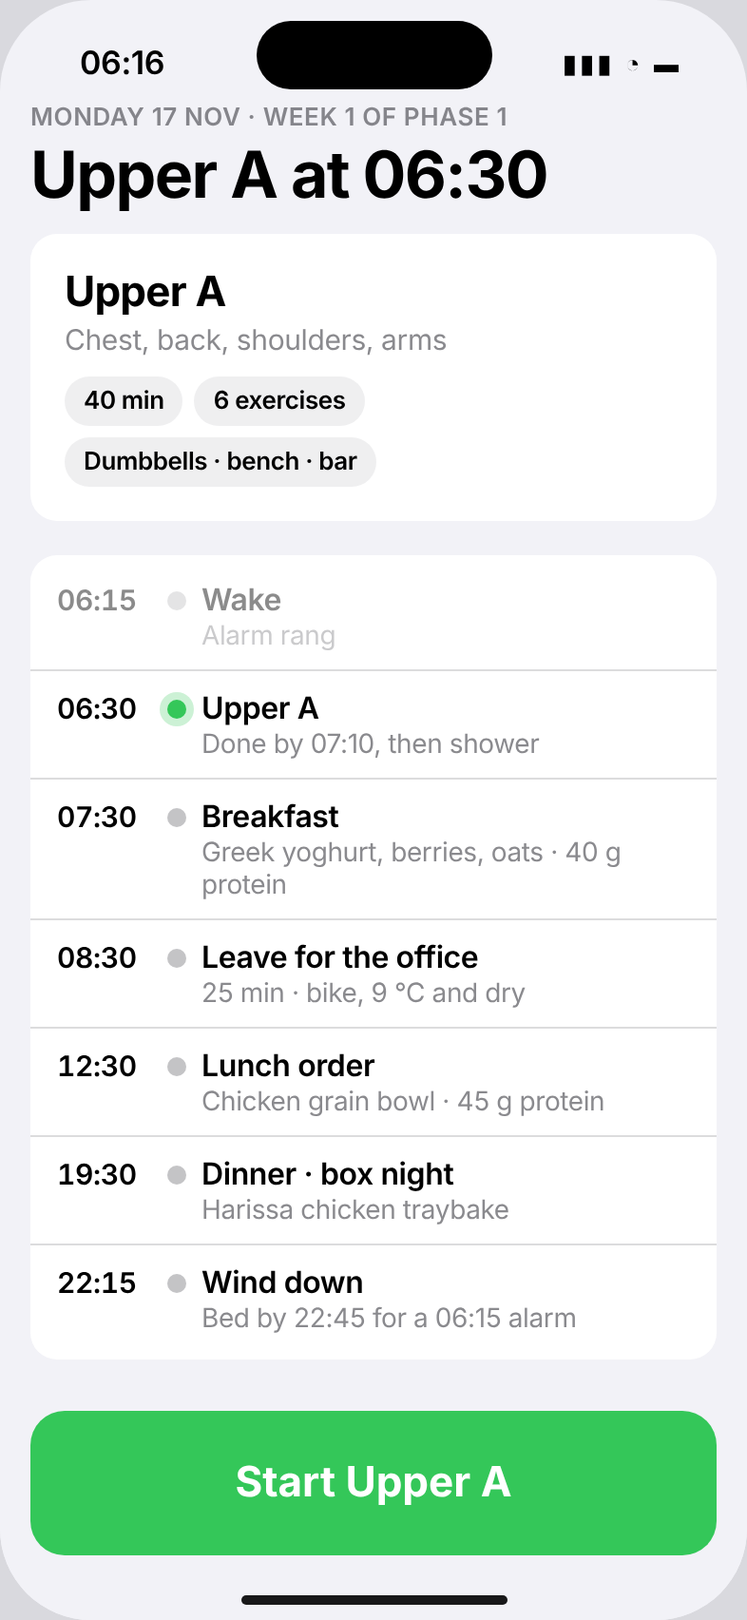
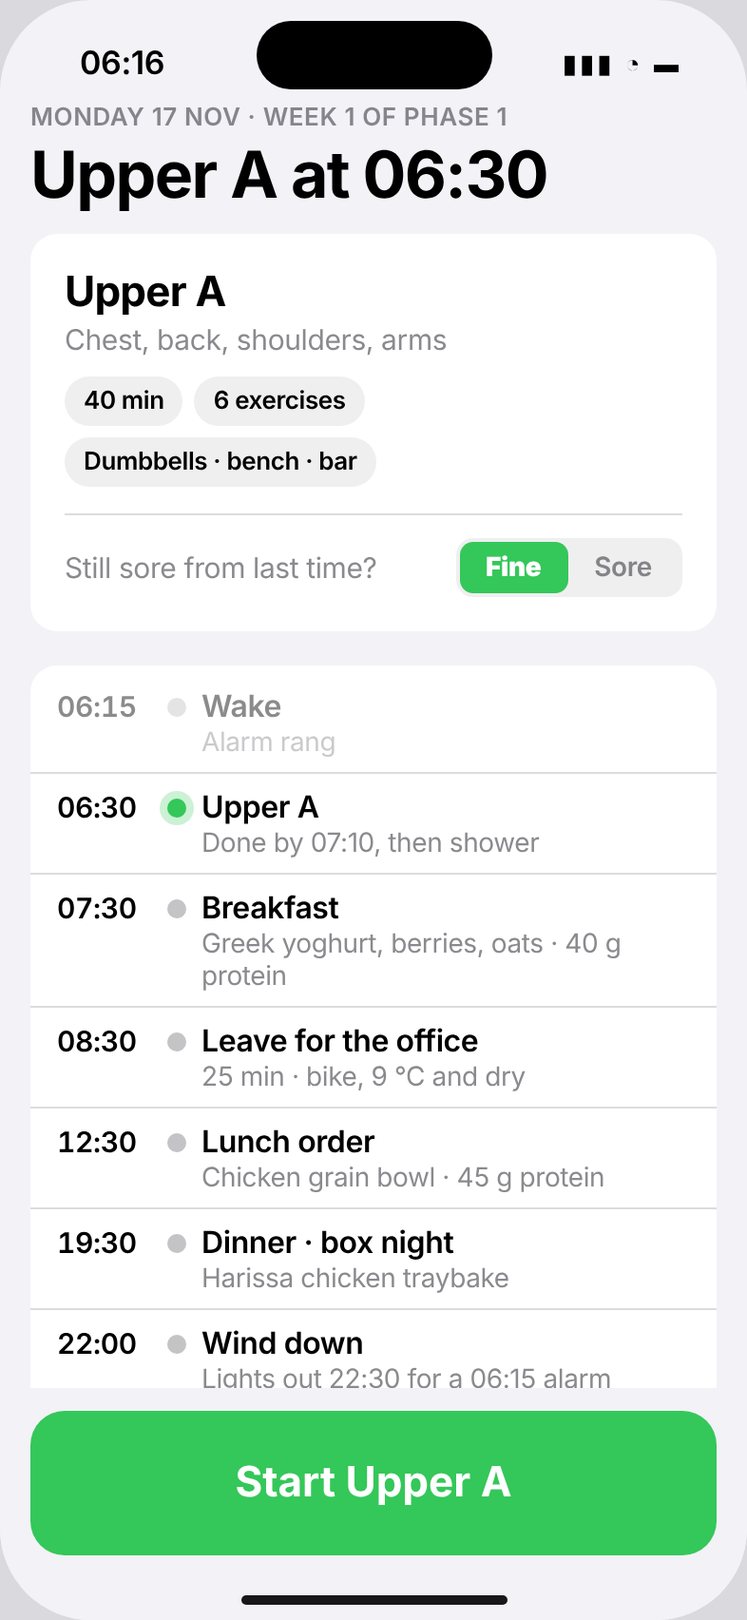
M1-03: fold in Advisor round 1 (warm-up, set variants, sleep rule, soreness row)
Claude-Session: https://claude.ai/code/session_01L5oTesrGTCiLPVATFCjxyL

diff --git a/docs/design/m1/mockups.html b/docs/design/m1/mockups.html
@@ -69,7 +69,7 @@
   .hero .meta { display: flex; gap: 6px; flex-wrap: wrap; margin-top: 10px; }
   .chip { font-size: 13px; font-weight: 600; padding: 5px 10px; border-radius: 99px; background: var(--fill); color: var(--label); }
   .timeline { margin-top: 18px; padding: 4px 0; }
-  .tl { display: grid; grid-template-columns: 58px 18px 1fr; align-items: start; padding: 9px 14px 9px 14px; }
+  .tl { display: grid; grid-template-columns: 58px 18px 1fr; align-items: start; padding: 7px 14px; }
   .tl .time { font-variant-numeric: tabular-nums; font-weight: 600; font-size: 15px; padding-top: 1px; }
   .tl .dot { width: 10px; height: 10px; border-radius: 5px; background: var(--label3); margin-top: 6px; }
   .tl.now .dot { background: var(--accent); box-shadow: 0 0 0 4px color-mix(in srgb, var(--accent) 25%, transparent); }
@@ -118,15 +118,15 @@
   .thumb svg { width: 52px; height: 52px; }
   .voice { margin: 14px 16px 0; text-align: center; font-size: 14px; color: var(--label2); }
 
-  .donehead { text-align: center; padding: 30px 16px 0; }
-  .tick { width: 84px; height: 84px; border-radius: 42px; background: var(--accent); color: var(--accent-ink); font-size: 46px; font-weight: 800; display: flex; align-items: center; justify-content: center; margin: 0 auto 16px; }
-  .stats { display: flex; margin: 20px 16px 0; padding: 14px 0; }
+  .donehead { text-align: center; padding: 8px 16px 0; }
+  .tick { width: 64px; height: 64px; border-radius: 32px; background: var(--accent); color: var(--accent-ink); font-size: 34px; font-weight: 800; display: flex; align-items: center; justify-content: center; margin: 0 auto 12px; }
+  .stats { display: flex; margin: 16px 16px 0; padding: 10px 0; }
   .stats div { flex: 1; text-align: center; }
   .stats div + div { border-left: .5px solid var(--sep); }
   .stats b { display: block; font-size: 24px; font-weight: 700; font-variant-numeric: tabular-nums; }
   .stats span { font-size: 13px; color: var(--label2); }
   .list { margin: 14px 16px 0; padding: 2px 14px; }
-  .li { display: flex; justify-content: space-between; align-items: center; padding: 11px 0; font-size: 15px; gap: 10px; }
+  .li { display: flex; justify-content: space-between; align-items: center; padding: 9px 0; font-size: 15px; gap: 10px; }
   .li + .li { border-top: .5px solid var(--sep); }
   .li .r { color: var(--label2); text-align: right; font-variant-numeric: tabular-nums; }
   .li .up { color: var(--accent); font-weight: 600; }
@@ -168,6 +168,18 @@
   .perm b { display: block; font-size: 17px; }
   .perm span { font-size: 15px; color: var(--label2); line-height: 1.3; }
 
+  .segs i.cd { flex: 2.5; }
+  .segs i.cd { background: var(--fill); }
+  .sore { display: flex; justify-content: space-between; align-items: center; margin-top: 14px; padding-top: 12px; border-top: .5px solid var(--sep); font-size: 15px; color: var(--label2); }
+  .seg { display: flex; background: var(--fill); border-radius: 9px; padding: 2px; font-size: 14px; font-weight: 600; }
+  .seg b, .seg i { font-style: normal; padding: 5px 14px; border-radius: 7px; }
+  .seg b { background: var(--accent); color: var(--accent-ink); }
+  .seg i { color: var(--label2); }
+  .side { display: flex; gap: 6px; margin: 10px 16px 0; }
+  .side span { flex: 1; text-align: center; padding: 8px 0; border-radius: 10px; background: var(--fill); font-weight: 700; font-size: 17px; color: var(--label2); }
+  .side span.on { background: var(--accent); color: var(--accent-ink); }
+  .side span.done { color: var(--accent); }
+  .bigclock { text-align:center; font-size: 96px; font-weight: 700; letter-spacing: -4px; font-variant-numeric: tabular-nums; line-height: 1; margin-top: 8px; }
   .lock { background: linear-gradient(160deg,#1d2b3a,#0b0f14); }
   .la { margin: 0 12px; padding: 16px 18px; border-radius: 24px; background: rgba(28,28,30,.82); }
 </style>
@@ -185,6 +197,7 @@
       <div class="t2">Upper A</div>
       <div class="sub" style="margin-top:2px">Chest, back, shoulders, arms</div>
       <div class="meta"><span class="chip">40 min</span><span class="chip">6 exercises</span><span class="chip">Dumbbells · bench · bar</span></div>
+      <div class="sore"><span>Still sore from last time?</span><span class="seg"><b>Fine</b><i>Sore</i></span></div>
     </div>
     <div class="card timeline">
       <div class="tl past"><span class="time">06:15</span><span class="dot"></span><span class="what">Wake<small>Alarm rang</small></span></div>
@@ -193,7 +206,7 @@
       <div class="tl"><span class="time">08:30</span><span class="dot"></span><span class="what">Leave for the office<small>25 min · bike, 9 °C and dry</small></span></div>
       <div class="tl"><span class="time">12:30</span><span class="dot"></span><span class="what">Lunch order<small>Chicken grain bowl · 45 g protein</small></span></div>
       <div class="tl"><span class="time">19:30</span><span class="dot"></span><span class="what">Dinner · box night<small>Harissa chicken traybake</small></span></div>
-      <div class="tl"><span class="time">22:15</span><span class="dot"></span><span class="what">Wind down<small>Bed by 22:45 for a 06:15 alarm</small></span></div>
+      <div class="tl"><span class="time">22:00</span><span class="dot"></span><span class="what">Wind down<small>Lights out 22:30 for a 06:15 alarm</small></span></div>
     </div>
   </div>
   <div class="dock">
@@ -219,9 +232,9 @@
     <div class="card timeline">
       <div class="tl past"><span class="time">07:00</span><span class="dot"></span><span class="what">Wake<small>Rest-day lie-in</small></span></div>
       <div class="tl now"><span class="time">07:20</span><span class="dot"></span><span class="what">Breakfast<small>Eggs on sourdough · 40 g protein</small></span></div>
-      <div class="tl"><span class="time">08:30</span><span class="dot"></span><span class="what">Leave for the office<small>25 min</small></span></div>
+      <div class="tl"><span class="time">08:30</span><span class="dot"></span><span class="what">Leave for the office<small>25 min · pack the shaker for tonight</small></span></div>
       <div class="tl"><span class="time">19:00</span><span class="dot"></span><span class="what">Basketball<small>Eat by 17:30 · shaker in your bag</small></span></div>
-      <div class="tl"><span class="time">22:15</span><span class="dot"></span><span class="what">Wind down<small>Bed by 22:45 for a 06:15 alarm</small></span></div>
+      <div class="tl"><span class="time">22:00</span><span class="dot"></span><span class="what">Wind down<small>Lights out 22:30 for a 06:15 alarm</small></span></div>
     </div>
   </div>
   <div class="dock">
@@ -286,6 +299,105 @@
 <figcaption>3 · Workout player, a set<span>"Done" logs the set as prescribed and starts the rest. The rep counter is optional; if used, its count is logged instead. End (✕) is top-left, away from the thumb, and asks before quitting.</span></figcaption>
 </figure>
 
+
+<!-- ============ 3a-3d. PLAYER VARIANTS (Advisor round 1) ============ -->
+<figure>
+<div class="phone dark" id="player-warmup">
+  <div class="status"><span>06:31</span><div class="island"></div><span class="icons">▮▮▮ ◔ ▬</span></div>
+  <div class="topbar"><div class="xbtn">✕</div><div class="progress"><i class="cur"></i><i></i><i></i><i></i><i></i><i></i></div><span class="count">Warm-up</span></div>
+  <div class="gif"><svg style="color:var(--label)"><use href="#figure"/></svg><span class="tag">Side · GIF</span></div>
+  <div class="exname"><span class="eyebrow" style="display:block">Warm-up · move 2 of 4</span>World's greatest stretch</div>
+  <div class="bigclock">0:34</div>
+  <div class="sub" style="text-align:center">5 each side · voice says when to switch</div>
+  <div class="card callouts">
+    <div class="co"><b>Move</b><span>Lunge, elbow to instep, then rotate and reach up.</span></div>
+  </div>
+  <div style="flex:1"></div>
+  <div class="dock"><button class="btn xl">Next</button></div>
+  <div class="home"></div>
+</div>
+<figcaption>3a · Warm-up (player step 0)<span>Five minutes, one move per card, voice-led, moves on by itself. "Next" skips ahead. Counts in the session's 40 minutes.</span></figcaption>
+</figure>
+
+<figure>
+<div class="phone dark" id="player-unilateral">
+  <div class="status"><span>06:45</span><div class="island"></div><span class="icons">▮▮▮ ◔ ▬</span></div>
+  <div class="topbar"><div class="xbtn">✕</div><div class="progress"><i class="done"></i><i class="done"></i><i class="cur"></i><i></i><i></i><i></i></div><span class="count">3 / 6</span></div>
+  <div class="gif"><svg style="color:var(--label)"><use href="#row"/></svg><span class="tag">Side · GIF</span></div>
+  <div class="exname">One-arm row</div>
+  <div class="presc">
+    <div><b>1<small style="font-size:24px;color:var(--label2)">/2</small></b><span>Set</span></div>
+    <div><b>10</b><span>Reps</span></div>
+    <div><b>12</b><span>kg</span></div>
+  </div>
+  <div class="side"><span class="done">Left ✓</span><span class="on">Right</span></div>
+  <div class="card callouts">
+    <div class="co"><b>Setup</b><span>Hand and knee on the bench, back flat.</span></div>
+    <div class="co"><b>Move</b><span>Pull the elbow to your hip, lower slowly.</span></div>
+    <div class="co mistake"><b>Fix</b><span>Keep shoulders square; don't twist to lift.</span></div>
+  </div>
+  <div style="flex:1"></div>
+  <div class="dock">
+    <div class="counter"><div class="n">4<small> / 10</small></div><div class="hint">Right side<br>count resets each side</div></div>
+    <button class="btn xl">Done</button>
+  </div>
+  <div class="home"></div>
+</div>
+<figcaption>3b · One side at a time<span>"Done" on the left switches straight to the right with no rest; voice says "switch sides". "Done" on the right starts the rest. The counter resets per side.</span></figcaption>
+</figure>
+
+<figure>
+<div class="phone dark" id="player-hold">
+  <div class="status"><span>07:02</span><div class="island"></div><span class="icons">▮▮▮ ◔ ▬</span></div>
+  <div class="topbar"><div class="xbtn">✕</div><div class="progress"><i class="done"></i><i class="done"></i><i class="done"></i><i class="done"></i><i class="done"></i><i class="cur"></i></div><span class="count">6 / 6</span></div>
+  <div class="gif"><svg style="color:var(--label)"><use href="#figure"/></svg><span class="tag">Side · GIF</span></div>
+  <div class="exname">Plank</div>
+  <div class="presc">
+    <div><b>1<small style="font-size:24px;color:var(--label2)">/2</small></b><span>Set</span></div>
+    <div style="flex:2"><b>0:14<small style="font-size:24px;color:var(--label2)"> / 0:20</small></b><span>Hold</span></div>
+  </div>
+  <div class="rir">Voice: "10 left", then 3, 2, 1, rest</div>
+  <div class="card callouts">
+    <div class="co"><b>Setup</b><span>Elbows under shoulders, body in one line.</span></div>
+    <div class="co"><b>Move</b><span>Brace like a punch is coming; breathe.</span></div>
+    <div class="co mistake"><b>Fix</b><span>Keep hips level, not sagging or piked.</span></div>
+  </div>
+  <div style="flex:1"></div>
+  <div class="dock">
+    <button class="btn xl">Done</button>
+  </div>
+  <div class="home"></div>
+</div>
+<figcaption>3c · Timed hold<span>No reps, no kg. After the rest the voice says "get in position… hold" and the countdown starts by itself. The rest starts at zero; "Done" ends early and still logs as held.</span></figcaption>
+</figure>
+
+<figure>
+<div class="phone dark" id="player-negative">
+  <div class="status"><span>06:52</span><div class="island"></div><span class="icons">▮▮▮ ◔ ▬</span></div>
+  <div class="topbar"><div class="xbtn">✕</div><div class="progress"><i class="done"></i><i class="done"></i><i class="done"></i><i class="cur"></i><i></i><i></i></div><span class="count">4 / 6</span></div>
+  <div class="gif"><svg style="color:var(--label)"><use href="#figure"/></svg><span class="tag">Front · GIF</span></div>
+  <div class="exname">Negative pull-up</div>
+  <div class="presc">
+    <div><b>1<small style="font-size:24px;color:var(--label2)">/2</small></b><span>Set</span></div>
+    <div><b>5</b><span>Lowers</span></div>
+    <div><b>5 s</b><span>each</span></div>
+  </div>
+  <div class="rir">Voice counts each lowering: "down, 2, 3, 4, 5"</div>
+  <div class="card callouts">
+    <div class="co"><b>Setup</b><span>Step up so your chin is over the bar.</span></div>
+    <div class="co"><b>Move</b><span>Lower for five seconds to straight arms.</span></div>
+    <div class="co mistake"><b>Fix</b><span>Stay tight to the end; don't drop.</span></div>
+  </div>
+  <div style="flex:1"></div>
+  <div class="dock">
+    <div class="counter"><div class="n">2<small> / 5</small></div><div class="hint">Tap anywhere here<br>to count (optional)</div></div>
+    <button class="btn xl">Done</button>
+  </div>
+  <div class="home"></div>
+</div>
+<figcaption>3d · Negatives<span>No kg column. The voice paces each five-second lowering. Graduates to pull-ups when 3 × 5 is done as prescribed (programme data).</span></figcaption>
+</figure>
+
 <!-- ============ 4. PLAYER: rest ============ -->
 <figure>
 <div class="phone dark" id="player-rest">
@@ -331,6 +443,8 @@
       <div class="li"><span>One-arm row</span><span class="r up">3 × 10 · 12 kg</span></div>
       <div class="li"><span>Negative pull-up</span><span class="r up">3 × 5 slow lowers</span></div>
       <div class="li"><span>Lateral raise</span><span class="r up">3 × 15 · 4 kg</span></div>
+      <div class="li"><span>Lying triceps extension</span><span class="r up">3 × 12 · 6 kg</span></div>
+      <div class="li"><span>Biceps curl</span><span class="r up">3 × 12 · 6 kg</span></div>
     </div>
   </div>
   <div class="dock">
@@ -352,14 +466,15 @@
     <div class="word">JOG</div>
     <div class="clock">0:38</div>
     <div class="then">Then walk 1:00</div>
+    <div class="sub" style="margin-top:6px">Easy pace: you could chat</div>
   </div>
   <div class="segs">
     <i class="wu d"></i>
     <i class="j d"></i><i class="w d"></i><i class="j d"></i><i class="w d"></i><i class="j d"></i><i class="w d"></i><i class="j c"></i><i class="w"></i>
-    <i class="j"></i><i class="w"></i><i class="j"></i><i class="w"></i><i class="j"></i><i class="w"></i><i class="j"></i><i class="w"></i><i class="j"></i><i class="w"></i><i class="j"></i><i class="w"></i>
+    <i class="j"></i><i class="w"></i><i class="j"></i><i class="w"></i><i class="j"></i><i class="w"></i><i class="j"></i><i class="w"></i><i class="j"></i><i class="w"></i><i class="j"></i><i class="w"></i><i class="cd"></i>
   </div>
-  <div class="seglabel"><span>Warm-up walk</span><span>10 × 1 min jog, 1 min walk</span></div>
-  <div class="sub" style="text-align:center;margin-top:18px;font-variant-numeric:tabular-nums">11:22 gone · 13:40 to go · 1.48 km</div>
+  <div class="seglabel"><span>Warm-up walk</span><span>10 × jog 1, walk 1</span><span>Cool-down</span></div>
+  <div class="sub" style="text-align:center;margin-top:18px;font-variant-numeric:tabular-nums">11:22 gone · 16:10 to go · 1.48 km</div>
   <div style="flex:1"></div>
   <div class="dock">
     <button class="btn xl" style="background:var(--fill);color:var(--label)">Pause</button>
@@ -382,10 +497,11 @@
       <div class="card rows" style="margin:0 16px">
         <div class="r"><span class="k">You</span><span class="v">Male, 30 · 178 cm · 82 kg</span></div>
         <div class="r"><span class="k">Goal</span><span class="v">Lean, strong, defined · 16–20 wks</span></div>
+        <div class="r"><span class="k">Anything that hurts</span><span class="v">Nothing</span></div>
       </div></div>
     <div class="grp"><div class="eyebrow">Week</div>
       <div class="card rows" style="margin:0 16px">
-        <div class="r"><span class="k">Sleep</span><span class="v"><span class="guess">Guess</span>7.5 h · bed by 23:30</span></div>
+        <div class="r"><span class="k">Sleep</span><span class="v"><span class="guess">Guess</span>7.5 h asleep, timed from the alarm</span></div>
         <div class="r"><span class="k">Work hours</span><span class="v"><span class="guess">Guess</span>09:00–18:00</span></div>
         <div class="r"><span class="k">Office days</span><span class="v">Asked each Sunday</span></div>
         <div class="r"><span class="k">Fixed</span><span class="v">Basketball, Wed evening</span></div>
@@ -450,7 +566,7 @@
   <div class="la">
     <div style="display:flex;justify-content:space-between;align-items:baseline"><span class="eyebrow">Run-walk · 4 of 10</span><span class="eyebrow">Then walk 1:00</span></div>
     <div style="display:flex;justify-content:space-between;align-items:baseline;margin-top:4px"><span style="font-size:40px;font-weight:800;color:var(--accent)">JOG</span><span style="font-size:52px;font-weight:700;font-variant-numeric:tabular-nums;letter-spacing:-2px">0:38</span></div>
-    <div class="segs" style="margin:10px 0 0"><i class="wu d"></i><i class="j d"></i><i class="w d"></i><i class="j d"></i><i class="w d"></i><i class="j d"></i><i class="w d"></i><i class="j c"></i><i class="w"></i><i class="j"></i><i class="w"></i><i class="j"></i><i class="w"></i><i class="j"></i><i class="w"></i><i class="j"></i><i class="w"></i><i class="j"></i><i class="w"></i><i class="j"></i><i class="w"></i></div>
+    <div class="segs" style="margin:10px 0 0"><i class="wu d"></i><i class="j d"></i><i class="w d"></i><i class="j d"></i><i class="w d"></i><i class="j d"></i><i class="w d"></i><i class="j c"></i><i class="w"></i><i class="j"></i><i class="w"></i><i class="j"></i><i class="w"></i><i class="j"></i><i class="w"></i><i class="j"></i><i class="w"></i><i class="j"></i><i class="w"></i><i class="j"></i><i class="w"></i><i class="cd"></i></div>
   </div>
   <div style="height:120px"></div>
   <div class="home"></div>

diff --git a/docs/design/m1/README.md b/docs/design/m1/README.md
@@ -1,6 +1,6 @@
 # M1-03 · Mock-ups: Today, workout player, run-walk, onboarding confirm
 
-Product Designer · 16 Nov 2026 · Round 1 with the Advisor (max 2). Source: [`mockups.html`](mockups.html); PNGs in [`png/`](png/) are rendered from it with `node docs/design/m1/render.js`. Screens are iPhone 17 Pro size (393 × 852 pt). Workout content is placeholder until M1-02 lands; numbers follow the Advisor's brief (week 1 = 2 sets, ~4 in reserve, conservative start weights).
+Product Designer · 16 Nov 2026 · Round 2 with the Advisor (max 2); round 1 critique answered below. Source: [`mockups.html`](mockups.html); PNGs in [`png/`](png/) are rendered from it with `node docs/design/m1/render.js`. Screens are iPhone 17 Pro size (393 × 852 pt). Workout content is placeholder until M1-02 lands; numbers follow the Advisor's brief (week 1 = 2 sets, ~4 in reserve, conservative start weights).
 
 **Test every screen against the guiding rule:** if it takes thinking or admin time, it has failed. Nothing in a normal day asks the owner to choose, rate or type.
 
@@ -11,6 +11,10 @@ Product Designer · 16 Nov 2026 · Round 1 with the Advisor (max 2). Source: [`m
 | 1 | Today, training day | `png/today-training.png` | M1-05 |
 | 2 | Today, basketball day + missing-alarm warning | `png/today-basketball-warning.png` | M1-05, M0-05 |
 | 3 | Player, a set | `png/player-set.png` | M1-06 |
+| 3a | Player, warm-up (step 0) | `png/player-warmup.png` | M1-06 |
+| 3b | Player, one side at a time | `png/player-unilateral.png` | M1-06 |
+| 3c | Player, timed hold | `png/player-hold.png` | M1-06 |
+| 3d | Player, negatives | `png/player-negative.png` | M1-06 |
 | 4 | Player, rest | `png/player-rest.png` | M1-06 |
 | 5 | Player, session done | `png/player-done.png` | M1-06, M1-08 |
 | 6 | Run-walk | `png/runwalk.png` | M1-07 |
@@ -22,6 +26,8 @@ Product Designer · 16 Nov 2026 · Round 1 with the Advisor (max 2). Source: [`m
 | Today | Set | Rest | Done |
 |---|---|---|---|
 | ![](png/today-training.png) | ![](png/player-set.png) | ![](png/player-rest.png) | ![](png/player-done.png) |
+| **Warm-up** | **One side** | **Hold** | **Negatives** |
+| ![](png/player-warmup.png) | ![](png/player-unilateral.png) | ![](png/player-hold.png) | ![](png/player-negative.png) |
 | **Run-walk** | **Lock screen** | **Onboarding confirm** | **Permissions** |
 | ![](png/runwalk.png) | ![](png/runwalk-lock.png) | ![](png/onboarding-confirm.png) | ![](png/onboarding-permissions.png) |
 
@@ -35,18 +41,21 @@ Product Designer · 16 Nov 2026 · Round 1 with the Advisor (max 2). Source: [`m
 
 ## Behaviour the engineers need
 
-**Today (M1-05).** The title says what's next and when ("Upper A at 06:30"). The button starts it. On a day with no session the button is "See tomorrow" (grey). The timeline marks past items faded and the current one with a green dot. In M1 it shows wake, session and bed; breakfast, leave, lunch and dinner join in M2 and M3. If the reconcile re-set alarms, an orange banner says how many and that nothing needs doing; it clears on the next open. No streaks, badges or missed-session copy anywhere.
+**Today (M1-05).** The title says what's next and when ("Upper A at 06:30"). The button starts it. On a training day the session card carries one optional row, "Still sore from last time?", with **Fine** pre-selected; ignoring it means fine. A "Sore" answer is the M1 recovery signal for the drop-to-2 rule (M1-08). Nothing else on Today asks anything. On a day with no session the button is "See tomorrow" (grey). The timeline marks past items faded and the current one with a green dot. Wake, wind-down and lights-out all come from **one sleep rule: lights out = alarm − 7.5 h − 15 min to fall asleep, wind-down 30 min before** (06:15 alarm → wind-down 22:00, lights out 22:30). Onboarding shows the rule, not a fixed bedtime. In M1 it shows wake, session and bed; breakfast, leave, lunch and dinner join in M2 and M3. If the reconcile re-set alarms, an orange banner says how many and that nothing needs doing; it clears on the next open. On basketball day, steps are one passive line (no notification, no ring) and "pack the shaker" sits on the leave row. No streaks, badges or missed-session copy anywhere.
 
 **Workout player (M1-06).**
+- Step 0 is the 5-minute warm-up: one move per card, voice-led, auto-advancing; "Next" skips ahead. It counts in the session length.
+- Set types come from the programme data: **reps × kg** (screen 3), **one side at a time** (3b: "Done" on the left switches to the right with no rest and the voice says "switch sides"; "Done" on the right starts the rest; the counter resets per side), **timed hold** (3c: no reps or kg; the voice says "get in position… hold", the countdown starts by itself and the rest starts at zero) and **negatives** (3d: no kg; the voice paces each lowering).
 - Set screen: "Done" logs the set **as prescribed** and starts the rest. The tap counter is optional: the whole tile is the target, and if it was used, its count is logged instead. The reps-in-reserve line ("Stop with 4 left in the tank") comes from the programme data.
 - Callouts are always visible: Setup, Move, Fix (the mistake phrased as the fix, ≤ 12 words each, from M1-02).
 - Rest screen: the ring counts down and the screen moves on by itself at zero. The next card shows the next exercise and **the weight to dial**, large, so the dial is set during the rest. "Next" skips the rest; "+30 s" extends it. The rest also runs as the M0-06 Live Activity with the voice countdown.
 - Done screen: nothing to log, because every set was logged as it happened. It shows time, sets and the next session's loads (M1-08). "Something was different" opens one edit screen listing the sets with steppers, pre-filled; it is never a required step.
-- A full session is: Start → (Done → rest auto-advances) × n → Done. That is the M1-06 UI test path ("next" and "done" only).
+- **Rule for M1-08 (Planner Engineer):** a set logged from the counter below target counts as **held** (same load next time), never as failed, unless two sets in a row of the same exercise in one session fall short. A half-used counter (dropped phone, counting by voice) must never hold back progression on its own.
+- A full session is: Start → warm-up (auto) → (Done → rest auto-advances) × n → Done. That is the M1-06 UI test path ("next" and "done" only).
 
-**Run-walk (M1-07).** The screen shows only the current interval (JOG green, WALK blue), time left, what's next, and a segment bar. Voice calls every change ("Walk for 1 minute") through headphones, so the phone can stay locked; the Live Activity mirrors the screen. Distance and time come from the phone and sit in one small line. One button: Pause.
+**Run-walk (M1-07).** The screen shows only the current interval (JOG green, WALK blue), time left, what's next, and a segment bar. Voice calls every change ("Walk for 1 minute") through headphones, so the phone can stay locked; the Live Activity mirrors the screen. The segment bar runs warm-up walk → intervals → 2–3 min cool-down walk. The first voice cue sets the effort once: "Easy pace: you could chat"; the screen repeats it under the interval. Distance and time come from the phone and sit in one small line. One button: Pause.
 
-**Onboarding confirm (M1-04).** One scroll of pre-filled rows from decision E6, then "Looks right". Tapping a row edits it inline (picker expands in place; no new screen). Only the answers the requirements draft left "to confirm" are marked **Guess** (sleep, work hours, longest session), so the owner knows which three lines deserve a glance. Then one permissions screen: Alarms, Notifications, Health, Location while using, each with one line on why; "Continue" walks through the four iOS prompts. Camera is asked on the first photo day; Calendar is never asked (Sunday prompt, D5).
+**Onboarding confirm (M1-04).** One scroll of pre-filled rows from decision E6, then "Looks right". Tapping a row edits it inline (picker expands in place; no new screen). "Anything that hurts" defaults to **Nothing**; an answer there swaps exercises for their named substitutes. Only the answers the requirements draft left "to confirm" are marked **Guess** (sleep, work hours, longest session), so the owner knows which three lines deserve a glance. Then one permissions screen: Alarms, Notifications, Health, Location while using, each with one line on why; "Continue" walks through the four iOS prompts. Camera is asked on the first photo day; Calendar is never asked (Sunday prompt, D5).
 
 ## Tokens (map to SwiftUI semantic colours)
 
@@ -81,10 +90,28 @@ Dynamic Type: numbers and buttons scale; callouts may truncate to two lines at t
 
 1. **Accent colour.** Green for go, blue for rest/walk. Alternative: one brand colour. Default: green.
 2. **Dark always vs follow the system.** Default: always dark, switchable in Settings.
-3. **Callout labels.** "Setup / Move / Fix" vs the plan's "setup, movement, common mistake". Default: Setup / Move / Fix.
-4. **Tap counter visibility.** Always shown (default, owner asked for it) vs hidden until tapped.
-5. **App icon.** Not designed in M1; the current placeholder stays.
+3. **App icon.** Not designed in M1; the current placeholder stays.
+
+Settled in round 1, no longer open: callout labels are **Setup / Move / Fix** (Advisor agreed; they read better than the plan's wording and match its "phrase the mistake as the fix"). The tap counter stays **always visible**, because the owner asked for tap and voice counting.
 
 ## Not in M1
 
 The Sunday prompt, "tomorrow changed", weather swap copy and meal rows on Today (M2, M3); progress and photo screens (M4).
+
+## Advisor critique round 1 · answered
+
+Critique: `/mnt/project-files/advisor/m1-03-critique-round1.md`.
+
+| # | Advisor point | Answer | Where |
+|---|---|---|---|
+| 1 | Warm-up as player step 0; run-walk cool-down | **Accepted.** Voice-led, auto-advancing warm-up card; 2–3 min cool-down walk at the end of the segment bar | 3a, 6, 11 |
+| 2 | Timed-hold and negative set variants, one mock-up each | **Accepted.** Hold: countdown, no reps or kg, starts by itself. Negatives: lowers × seconds, voice-paced, no kg | 3c, 3d |
+| 3 | Left/right for one-sided sets, no rest between sides, counter resets per side | **Accepted** | 3b |
+| 4 | A short counted set logs as held, not failed (note for M1-08) | **Accepted.** Rule written under Workout player for the Planner Engineer | README |
+| 5 | One sleep rule so onboarding and Today agree | **Accepted.** Lights out = alarm − 7.5 h − 15 min; onboarding shows "7.5 h asleep, timed from the alarm" | 1, 2, 7 |
+| 6 | Optional pre-selected "still sore?" row on Today | **Accepted.** "Still sore from last time?" with Fine pre-selected, training days only | 1, 9 |
+| 7 | Onboarding "Anything that hurts: Nothing" | **Accepted** | 7 |
+| 8 | First voice cue "easy pace, you could chat" | **Accepted,** and repeated as one line under the interval | 6 |
+| 9 | Steps passive only; shaker on the leave row too | **Accepted** | 2 |
+| 10 | Show all 6 lifts on the done screen | **Accepted.** All six fit without scrolling | 5 |
+| Taste | Adopt Setup / Move / Fix now; keep counter always visible | **Accepted.** Both moved out of the open list | Taste decisions |
